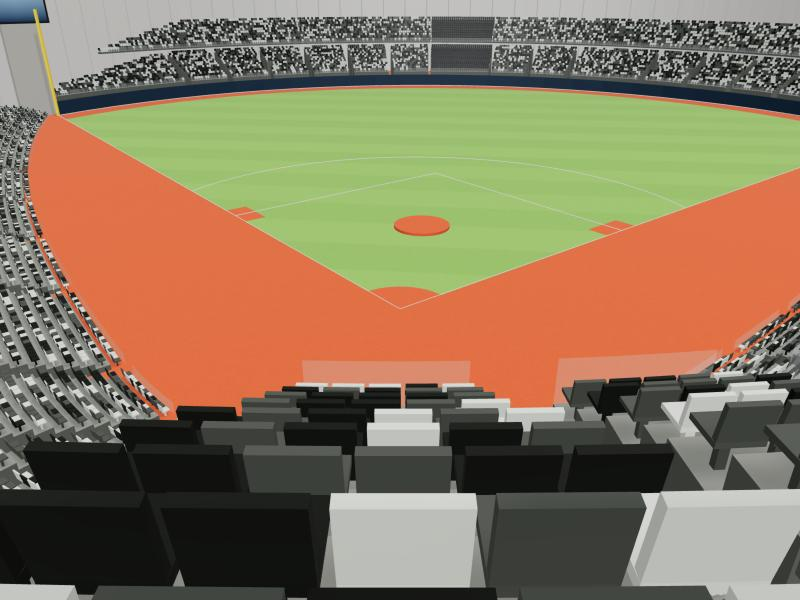
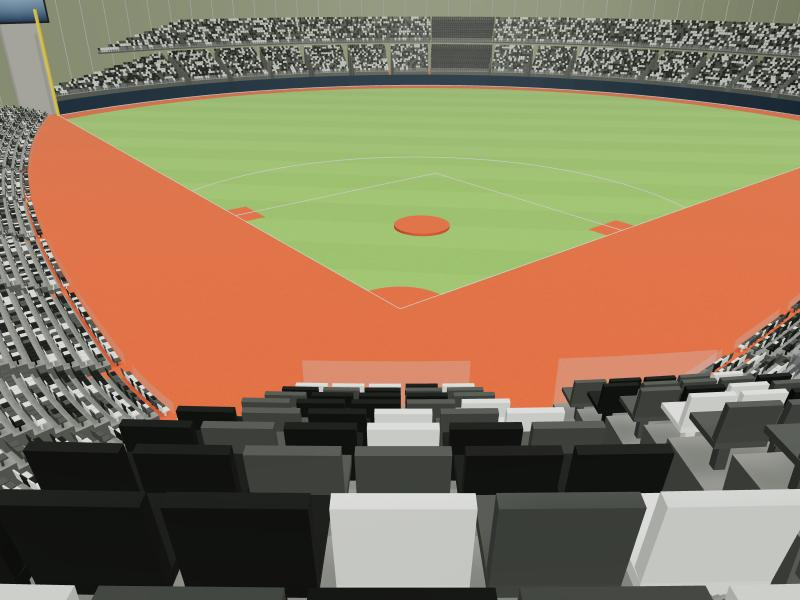
feat(render): roof beams, light band, wall and fog calibrated (Pass 2)
Roof beams are 0.3 m ribbons with a little glow, the roof base is dark
grey, the roof-edge lights are one continuous 0.8 m band, the wall takes
the sampled colour and the fog uses it at density 0.003. After 3 rounds
everything is within 15/255 except the light seat group (-22): the fog
pulls distant light seats toward the wall colour and the light seat
material is already near the 215 brightness cap.

diff --git a/src/render/shell.ts b/src/render/shell.ts
@@ -6,10 +6,11 @@ import { isScreenOn, roofHeightAt, roofLattice, screenCorners, screenNormal, she
 // 顏色與間距依使用者照片目視估計（C）；圖案自己生成，不複製任何照片或網站的畫面。
 
 const COLORS = {
-  wall: "#cfccc6",
+  wall: "#8f9678",
   seam: "#a6a9ad",
-  roof: "#2a2e35",
-  lattice: "#d0d3cc",
+  roof: "#34373c",
+  lattice: "#9aa092",
+  latticeGlow: "#7d8573",
   light: "#dccba0",
   /** 螢幕亮的時候：中性的漸層色塊（不放文字、標誌、廣告或品牌色），下深上淺 */
   screenBottom: "#2b3f58",
@@ -24,13 +25,16 @@ const FRAME = { margin: 0.3, depth: 0.4, back: 0.25 } as const;
 /** 螢幕網格的切分（給漸層用）。 */
 const SCREEN_GRID = { columns: 8, rows: 4 } as const;
 
-/** 格柵線間距、牆面接縫間距、屋頂邊緣燈的間距（m，C）。 */
-export const SHELL_SPACING = { lattice: 6, seam: 6, light: 5 } as const;
+/** 格柵線間距、牆面接縫間距（m，C）。 */
+export const SHELL_SPACING = { lattice: 6, seam: 6 } as const;
 /** 屋頂網格從中心到牆頂分幾圈。 */
 const ROOF_RINGS = 36;
 /** 接縫線與燈往內縮多少（m），避免和牆面重疊閃爍。 */
 const INSET = 0.05;
-const LIGHT_SIZE = { length: 1.6, height: 0.6, depth: 0.6 } as const;
+/** 屋頂梁的寬度（m）：校色規格要求 ≥ 0.25 m，不用 1 px 的線。 */
+export const LATTICE_WIDTH = 0.3;
+/** 屋頂邊緣的連續發光帶有多高（m）：校色規格要求 ≥ 0.6 m。 */
+const LIGHT_BAND_HEIGHT = 0.8;
 /** 燈離牆往內多少（m）：放在深色屋頂前面才看得出來。 */
 const LIGHT_INSET = 2.5;
 /** 牆上一圈圓形通風孔（現場照片；高度、間距、大小是目視估計，C）：離牆頂 below 公尺，每隔 spacing 公尺一個。 */
@@ -208,35 +212,73 @@ function buildRoof(shell: Shell): THREE.Mesh {
   return mesh;
 }
 
-function buildLattice(shell: Shell): THREE.LineSegments {
+/** 點在不在多邊形內（射線法）：屋頂梁靠牆的那一側要留在輪廓內。 */
+function insideOutline(outline: PlanPoint[], p: PlanPoint): boolean {
+  let inside = false;
+  for (const [a, b] of edges(outline)) {
+    if (a.z > p.z !== b.z > p.z && p.x < ((b.x - a.x) * (p.z - a.z)) / (b.z - a.z) + a.x) inside = !inside;
+  }
+  return inside;
+}
+
+/** 屋頂梁：每段格柵線畫成寬 LATTICE_WIDTH 的帶子，兩側的點都投影回殼面；靠牆時整段往形心移，留在輪廓內。 */
+function buildLattice(shell: Shell): THREE.Mesh {
   const positions: number[] = [];
+  const onRoof = (q: PlanPoint) => [q.x, roofHeightAt(shell, q), q.z] as const;
+  /** 一個端點的左右兩點；有一點跑出輪廓時，兩點一起往形心移（寬度不變） */
+  const pair = (p: PlanPoint, side: PlanPoint) => {
+    let [l, r] = [
+      { x: p.x + side.x, z: p.z + side.z },
+      { x: p.x - side.x, z: p.z - side.z },
+    ];
+    if (!insideOutline(shell.outline, l) || !insideOutline(shell.outline, r)) {
+      const m = inward(shell, p, LATTICE_WIDTH);
+      const [dx, dz] = [m.x - p.x, m.z - p.z];
+      [l, r] = [
+        { x: l.x + dx, z: l.z + dz },
+        { x: r.x + dx, z: r.z + dz },
+      ];
+    }
+    return [onRoof(l), onRoof(r)] as const;
+  };
   for (const line of roofLattice(shell, SHELL_SPACING.lattice)) {
     for (let i = 1; i < line.length; i++) {
       const [a, b] = [line[i - 1], line[i]];
-      if (a && b) positions.push(a.x, a.y, a.z, b.x, b.y, b.z);
+      if (!a || !b) continue;
+      const length = Math.hypot(b.x - a.x, b.z - a.z);
+      if (length === 0) continue;
+      const side = { x: (-(b.z - a.z) / length) * (LATTICE_WIDTH / 2), z: ((b.x - a.x) / length) * (LATTICE_WIDTH / 2) };
+      const [[al, ar], [bl, br]] = [pair(a, side), pair(b, side)];
+      // 4 個頂點一段（起點左右、終點左右），用 index 拼成兩個三角形
+      positions.push(...al, ...ar, ...bl, ...br);
     }
+  }
+  const indices: number[] = [];
+  for (let k = 0; k < positions.length / 12; k++) indices.push(4 * k, 4 * k + 1, 4 * k + 2, 4 * k + 1, 4 * k + 3, 4 * k + 2);
+  const geometry = new THREE.BufferGeometry();
+  geometry.setAttribute("position", new THREE.Float32BufferAttribute(positions, 3));
+  geometry.setIndex(indices);
+  geometry.computeVertexNormals();
+  // 梁的下面幾乎照不到場景光：加一點自發光（latticeGlow），亮度對齊參考照片的屋頂梁取樣值
+  const material = new THREE.MeshStandardMaterial({ color: COLORS.lattice, emissive: COLORS.latticeGlow, roughness: 0.6, metalness: 0.2, side: THREE.DoubleSide });
+  const mesh = new THREE.Mesh(geometry, material);
+  mesh.name = "shell-lattice";
+  return mesh;
+}
+
+/** 屋頂邊緣一圈連續的發光帶：自己發光（MeshBasicMaterial 不受光線影響），沿牆頂往內一點、殼面下方繞一整圈。 */
+function buildLights(shell: Shell): THREE.Mesh {
+  const positions: number[] = [];
+  const top = (p: PlanPoint) => roofHeightAt(shell, p) - 0.2;
+  for (const [a, b] of edges(shell.outline)) {
+    const [p, q] = [inward(shell, a, LIGHT_INSET), inward(shell, b, LIGHT_INSET)];
+    const [pt, qt] = [top(p), top(q)];
+    const [pb, qb] = [pt - LIGHT_BAND_HEIGHT, qt - LIGHT_BAND_HEIGHT];
+    positions.push(p.x, pb, p.z, q.x, qb, q.z, q.x, qt, q.z, p.x, pb, p.z, q.x, qt, q.z, p.x, pt, p.z);
   }
   const geometry = new THREE.BufferGeometry();
   geometry.setAttribute("position", new THREE.Float32BufferAttribute(positions, 3));
-  const lines = new THREE.LineSegments(geometry, new THREE.LineBasicMaterial({ color: COLORS.lattice }));
-  lines.name = "shell-lattice";
-  return lines;
-}
-
-/** 屋頂邊緣一圈燈：自己發光（MeshBasicMaterial 不受光線影響），掛在牆頂往內一點、殼面下方。 */
-function buildLights(shell: Shell): THREE.InstancedMesh {
-  const spots = alongOutline(shell.outline, SHELL_SPACING.light);
-  const geometry = new THREE.BoxGeometry(LIGHT_SIZE.length, LIGHT_SIZE.height, LIGHT_SIZE.depth);
-  const mesh = new THREE.InstancedMesh(geometry, new THREE.MeshBasicMaterial({ color: COLORS.light }), spots.length);
-  const transform = new THREE.Object3D();
-  spots.forEach(({ point, tangent }, i) => {
-    const p = inward(shell, point, LIGHT_INSET);
-    transform.position.set(p.x, roofHeightAt(shell, p) - LIGHT_SIZE.height, p.z);
-    transform.rotation.set(0, -Math.atan2(tangent.z, tangent.x), 0);
-    transform.updateMatrix();
-    mesh.setMatrixAt(i, transform.matrix);
-  });
-  mesh.instanceMatrix.needsUpdate = true;
+  const mesh = new THREE.Mesh(geometry, new THREE.MeshBasicMaterial({ color: COLORS.light, side: THREE.DoubleSide }));
   mesh.name = "shell-lights";
   return mesh;
 }

diff --git a/src/render/scene.ts b/src/render/scene.ts
@@ -63,9 +63,10 @@ export function buildVenueScene(venue: Venue, layoutId: string): VenueScene {
   const scene = new THREE.Scene();
   scene.background = new THREE.Color("#1b1d23");
   // 室內的薄霧（C）：200 m 外約淡 10%，遠近才有空氣感；不會把遠處蓋掉
-  scene.fog = new THREE.FogExp2("#2b2f37", 0.0016);
+  // 很淡的霧：顏色是參考照片的牆面取樣值（docs/look-targets.md），降低遠處座椅的黑白噪點
+  scene.fog = new THREE.FogExp2("#767c66", 0.003);
   // 室內場館：屋頂燈光從上方均勻照下。半球光給整體漫射，平行光讓踏面比踢面亮；不開陰影（燈光分散、也太吃效能）
-  scene.add(new THREE.HemisphereLight("#eef2f7", "#3a3c42", 1.4));
+  scene.add(new THREE.HemisphereLight("#eef2f7", "#3a3c42", 1.5));
   const sun = new THREE.DirectionalLight(0xffffff, 1.4);
   sun.position.set(30, 80, 20);
   scene.add(sun, sun.target);

diff --git a/src/render/seats.ts b/src/render/seats.ts
@@ -27,7 +27,7 @@ export const SEAT_NEUTRAL = new THREE.Color("#3b4d61");
  * 座位視角的椅子顏色：中灰、淺灰、深灰各約 1/3，不規則配置。
  * 顏色以參考照片取樣的三群為目標校色（見 docs/look-targets.md），不是官方配色或量測值。
  */
-export const SEAT_PALETTE = [new THREE.Color("#4a4d47"), new THREE.Color("#c6c9bf"), new THREE.Color("#171a14")] as const;
+export const SEAT_PALETTE = [new THREE.Color("#4a4d47"), new THREE.Color("#d4d7cd"), new THREE.Color("#171a14")] as const;
 export const SEAT_PALETTE_WEIGHTS = [0.34, 0.33, 0.33] as const;
 
 /** 這一席在 SEAT_PALETTE 裡的顏色：由 (區、排、號) 雜湊決定，每次都一樣。 */

diff --git a/docs/look-targets.md b/docs/look-targets.md
@@ -24,33 +24,33 @@
 - 座椅：第一版取 1× 截圖下方（0.36–0.64, 0.80–0.95），只框到幾張近處的大椅子，中位群多半是椅子側面與踏面，跟照片框裡上百張小椅子加地面的組成不同。使用者同意後改取 0.5× 截圖裡三壘側 B1 看台的一片小椅子（0.02–0.24, 0.30–0.50）。
 - 渲染的框：草皮 0.55–0.70, 0.33–0.37；紅土 0.10–0.18, 0.40–0.50；牆面 0.64–0.84, 0.20–0.25（0.5×）；屋頂梁 0.30–0.70, 0.00–0.10（0.5×）；座椅 0.02–0.24, 0.30–0.50（0.5×）。
 
-| 元素 | 通道 | 目標 | 改前 | 改後 | 改後差 | ≤ 15 |
-|---|---|---|---|---|---|---|
-| 草皮 | R | 169.0 | 151.7 | 159.7 | -9.3 | ✓ |
-|  | G | 202.8 | 199.6 | 194.6 | -8.2 | ✓ |
-|  | B | 115.6 | 112.1 | 114.1 | -1.5 | ✓ |
-| 紅土 | R | 230.0 | 234.9 | 226.2 | -3.8 | ✓ |
-|  | G | 112.8 | 156.1 | 114.3 | +1.5 | ✓ |
-|  | B | 74.7 | 89.1 | 71.9 | -2.8 | ✓ |
-| 牆面 | R | 117.8 | 202.0 | 170.6 | +52.8 | ✗ |
-|  | G | 124.4 | 201.9 | 169.9 | +45.5 | ✗ |
-|  | B | 101.7 | 200.4 | 168.0 | +66.3 | ✗ |
-| 屋頂梁 | R | 115.5 | 152.8 | 125.9 | +10.4 | ✓ |
-|  | G | 124.0 | 153.8 | 126.9 | +2.9 | ✓ |
-|  | B | 109.2 | 157.8 | 129.2 | +20.0 | ✗ |
-| 座椅・最暗群（換框後） | R | 38.1 | 102.9 | 49.3 | +11.2 | ✓ |
-|  | G | 41.4 | 104.1 | 51.3 | +9.9 | ✓ |
-|  | B | 33.7 | 107.6 | 47.2 | +13.5 | ✓ |
-| 座椅・中位群（換框後） | R | 108.5 | 159.5 | 105.8 | -2.7 | ✓ |
-|  | G | 110.7 | 160.9 | 107.8 | -2.9 | ✓ |
-|  | B | 102.5 | 164.2 | 103.6 | +1.1 | ✓ |
-| 座椅・最亮群（換框後） | R | 176.6 | 200.6 | 166.1 | -10.5 | ✓ |
-|  | G | 178.4 | 201.4 | 167.3 | -11.1 | ✓ |
-|  | B | 170.5 | 203.4 | 163.4 | -7.1 | ✓ |
+| 元素 | 通道 | 目標 | 改前 | Pass 1 後 | Pass 2 後 | Pass 2 後差 | ≤ 15 |
+|---|---|---|---|---|---|---|---|
+| 草皮 | R | 169.0 | 151.7 | 159.0 | 160.8 | -8.2 | ✓ |
+|  | G | 202.8 | 199.6 | 193.9 | 194.4 | -8.4 | ✓ |
+|  | B | 115.6 | 112.1 | 113.4 | 115.6 | +0.0 | ✓ |
+| 紅土 | R | 230.0 | 234.9 | 225.4 | 225.9 | -4.1 | ✓ |
+|  | G | 112.8 | 156.1 | 113.3 | 116.1 | +3.3 | ✓ |
+|  | B | 74.7 | 89.1 | 71.3 | 73.7 | -1.0 | ✓ |
+| 牆面 | R | 117.8 | 202.0 | 170.9 | 124.8 | +7.0 | ✓ |
+|  | G | 124.4 | 201.9 | 170.2 | 130.3 | +5.9 | ✓ |
+|  | B | 101.7 | 200.4 | 168.2 | 106.7 | +5.0 | ✓ |
+| 屋頂梁 | R | 115.5 | 152.8 | 135.5 | 110.7 | -4.8 | ✓ |
+|  | G | 124.0 | 153.8 | 136.5 | 112.7 | -11.3 | ✓ |
+|  | B | 109.2 | 157.8 | 138.7 | 109.6 | +0.4 | ✓ |
+| 座椅・最暗群 | R | 38.1 | 102.9 | 49.3 | 49.3 | +11.2 | ✓ |
+|  | G | 41.4 | 104.1 | 51.3 | 51.3 | +9.9 | ✓ |
+|  | B | 33.7 | 107.6 | 47.2 | 46.5 | +12.8 | ✓ |
+| 座椅・中位群 | R | 108.5 | 159.5 | 105.8 | 101.4 | -7.1 | ✓ |
+|  | G | 110.7 | 160.9 | 107.8 | 103.5 | -7.2 | ✓ |
+|  | B | 102.5 | 164.2 | 103.6 | 98.4 | -4.1 | ✓ |
+| 座椅・最亮群 | R | 176.6 | 200.6 | 166.1 | 154.7 | -21.9 | ✗ |
+|  | G | 178.4 | 201.4 | 167.3 | 157.5 | -20.9 | ✗ |
+|  | B | 170.5 | 203.4 | 163.4 | 148.5 | -22.0 | ✗ |
 
-- 通過：草皮、紅土（第 2 輪起）、座椅三群（換框後第 2 輪；三群各占 34.5%、32.5%、33%）。
-- 換框前的第 3 輪，座椅中位群差約 +40，原因見上。
-- 牆面、屋頂梁屬於 Pass 2（屋頂梁、霧用牆面色）；Pass 1 沒有全部通過，依規則沒有做 Pass 2，只把屋頂格柵壓到亮度 215 以下。
+- 「改前」的座椅用換框後的框重新取樣。
+- Pass 1 後：草皮、紅土、座椅三群通過（換框後第 2 輪；三群各占 34.5%、32.5%、33%）。換框前的第 3 輪，座椅中位群差約 +40，原因見上。
+- Pass 2 後（3 輪）：牆面、屋頂梁也通過；**座椅最亮群退回 −22，沒通過**。加霧以後，遠處的淺色椅子被往霧色（牆面色）拉；淺色材質已經在亮度上限附近（`#d4d7cd`，約 214），沒辦法再補。霧沒有把螢幕或牆面洗掉，所以沒有依規則還原。
 
 ## 改了什麼（Pass 1）
 
@@ -63,5 +63,17 @@
 | 紅土紋理倍數 | 1、1、1 | 1.075、0.71、1.26 |
 | 屋頂格柵、屋頂邊緣燈、預設線色 | `#eef0f2`、`#ffe9b8`、`#ffffff` | `#d0d3cc`、`#dccba0`、`#d6d6d6`（亮度 ≤ 215） |
 | 預設倍數 | 0.5× | 1×（0.5× 保留為按鈕） |
+
+## 改了什麼（Pass 2）
+
+| 項目 | 改前 | 改後 |
+|---|---|---|
+| 屋頂梁 | 1 px 的線，`#d0d3cc` | 寬 0.3 m 的帶子，`#9aa092`，加自發光 `#7d8573`（梁的下面幾乎照不到場景光） |
+| 屋頂底色 | `#2a2e35` | `#34373c`（深灰，不是純黑） |
+| 屋頂邊緣燈 | 每 5 m 一盞小燈 | 一圈連續的發光帶，高 0.8 m |
+| 霧 | `#2b2f37`、density 0.0016 | `#767c66`（牆面取樣值）、density 0.003 |
+| 牆面 | `#cfccc6` | `#8f9678` |
+| 天光 | 1.4 | 1.5 |
+| 淺色椅子 | `#c6c9bf` | `#d4d7cd` |
 
 截圖（只有我們自己的渲染）：改前 [1×](screenshots/look-before-212-r10-s3-1x.jpg)、[0.5×](screenshots/look-before-212-r10-s3-05x.jpg)；改後 [1×](screenshots/look-after-212-r10-s3-1x.jpg)、[0.5×](screenshots/look-after-212-r10-s3-05x.jpg)。
